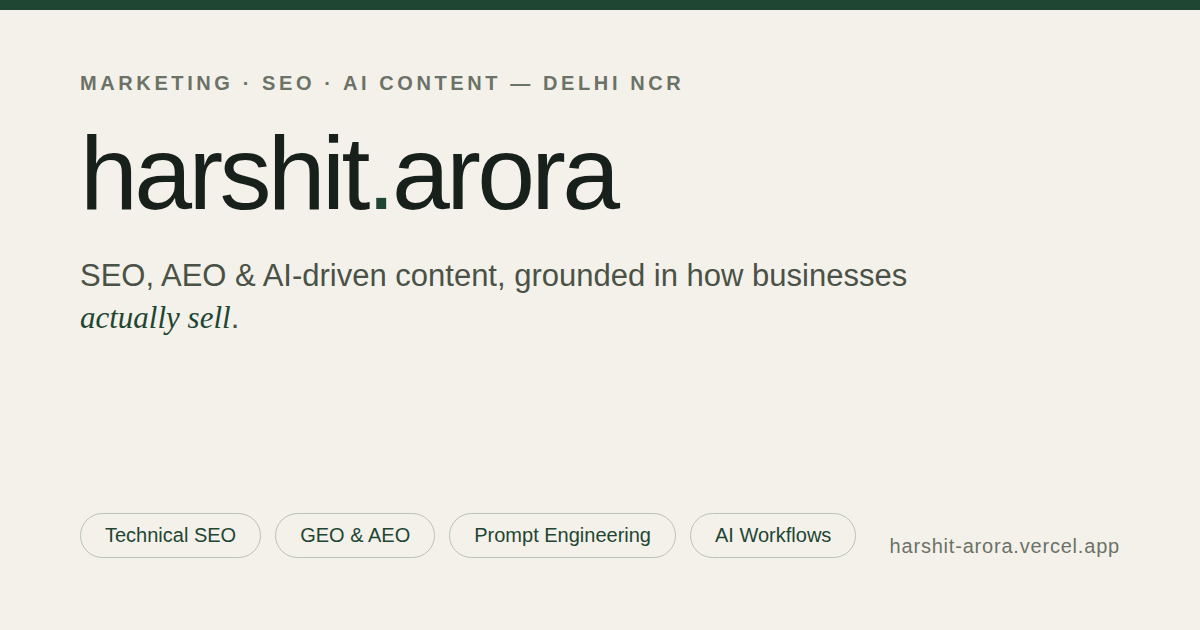
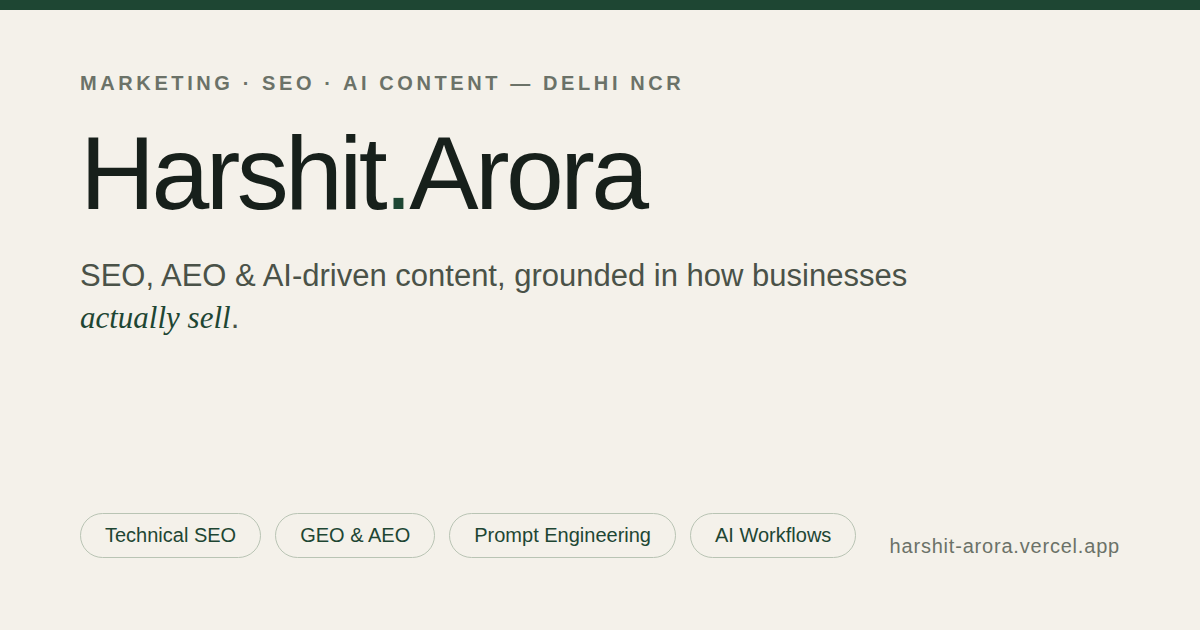
Add scroll-lit text, magnetic hover, layered panels; capitalise wordmark
Motion techniques adapted from the supplied reference spec, implemented
natively rather than migrating to React/Framer Motion.

- Scroll-lit text: headings and the contact paragraph light character by
  character as they enter view. Each character derives its opacity from a
  single custom property on the parent, so a frame updates one property
  rather than looping over spans.
- Magnetic hover on the portrait frame and the nav button, pointer devices
  only. Applied to the frame, not the image, so it cannot fight the
  existing parallax transform.
- Layered panels: Skills and Contact get rounded tops and Contact overlaps
  the band above it, giving the sections depth as they scroll past.
- Gradient heading on the dark Skills band.
- Wordmark now reads "Harshit.Arora" in the nav, the intro curtain and the
  social card.

Two defects found in review and fixed before shipping:
- the contact paragraph never finished lighting because it sits near the
  end of the document and never scrolled high enough; the progress now
  completes once an element's top reaches 60% of the viewport
- frame spikes from writing the custom property every frame and declaring
  will-change on 116 spans; writes are now skipped when the rounded value
  is unchanged, and will-change removed

Verified: median 16.7ms / p95 16.7ms during full-page scroll, no elements
left invisible, no runtime errors, and correct behaviour under
prefers-reduced-motion and with JavaScript disabled.
[…]

Changed region(s): [[0.0617, 0.2111, 0.555, 0.3317]]

diff --git a/index.html b/index.html
@@ -401,6 +401,45 @@
     .portrait-frame img { transform: none !important; }
     .btn:hover, .role:hover .role-detail h3, .chip:hover { transform: none !important; }
   }
+
+  /* ---------- Scroll-lit text (per-character, driven by one custom property) ---------- */
+  html.js .lit .ch {
+    opacity: calc(.22 + .78 * clamp(0, calc(var(--lit, 0) - var(--i)), 1));
+  }
+
+  /* ---------- Magnetic hover ---------- */
+  .magnetic { transition: transform .6s ease-in-out; will-change: transform; }
+  .magnetic.pulling { transition: transform .3s ease-out; }
+
+  /* ---------- Layered panels: rounded tops that overlap the section above ---------- */
+  .skills-band {
+    border-top: none;
+    border-radius: 44px 44px 0 0;
+    position: relative; z-index: 2;
+  }
+  .contact-band {
+    border-radius: 44px 44px 0 0;
+    margin-top: -44px;
+    position: relative; z-index: 3;
+  }
+  .contact-inner { padding-top: 150px; }
+  @media (max-width: 640px) {
+    .skills-band, .contact-band { border-radius: 30px 30px 0 0; }
+    .contact-band { margin-top: -30px; }
+    .contact-inner { padding-top: 104px; }
+  }
+
+  /* ---------- Gradient heading on the dark band ---------- */
+  .skills-band h2 {
+    background: linear-gradient(180deg, #F4F1EA 0%, #9DB5A4 125%);
+    -webkit-background-clip: text; background-clip: text;
+    -webkit-text-fill-color: transparent; color: transparent;
+  }
+
+  @media (prefers-reduced-motion: reduce) {
+    html.js .lit .ch { opacity: 1 !important; }
+    .magnetic { transition: none !important; transform: none !important; }
+  }
 </style>
 
 <script type="application/ld+json">
@@ -465,7 +504,7 @@
 </head>
 <body>
 <div class="intro" id="intro" aria-hidden="true">
-  <div class="intro-inner"><span class="intro-word"><span class="iw">harshit<span class="idot">.</span>arora</span></span></div>
+  <div class="intro-inner"><span class="intro-word"><span class="iw">Harshit<span class="idot">.</span>Arora</span></span></div>
   <div class="intro-meta">
     <span class="intro-label">Marketing · SEO · AI Content</span>
     <span class="intro-count" id="introCount">0</span>
@@ -476,7 +515,7 @@
 
 <nav class="nav">
   <div class="container nav-inner">
-    <a href="#top" class="wordmark">harshit<span style="color: var(--green)">.</span>arora</a>
+    <a href="#top" class="wordmark">Harshit<span style="color: var(--green)">.</span>Arora</a>
     <div class="nav-links">
       <a href="#experience">Experience</a>
       <a href="#skills">Skills</a>
@@ -757,6 +796,7 @@
   var frame = $(".portrait-frame");
   var portrait = frame ? $("img", frame) : null;
   var ticking = false;
+  var litEls = [];
 
   function update() {
     ticking = false;
@@ -777,8 +817,70 @@
         portrait.style.transform = "translate3d(0," + ((p - 0.5) * -34).toFixed(2) + "px,0) scale(1.08)";
       }
     }
+
+    if (litEls && litEls.length && !reduce) {
+      var vh = window.innerHeight, rects = [];
+      for (var i = 0; i < litEls.length; i++) rects.push(litEls[i].getBoundingClientRect()); // read
+      for (var j = 0; j < litEls.length; j++) {                                              // then write
+        var rc = rects[j];
+        // starts as the element enters at 95% of the viewport, completes once its
+        // top reaches 60% — so blocks near the end of the document still finish
+        var prog = (vh * 0.95 - rc.top) / (vh * 0.35);
+        prog = prog < 0 ? 0 : prog > 1 ? 1 : prog;
+        var v = Math.round(prog * (litEls[j].__chars + 6));
+        if (v !== litEls[j].__lit) {            // only touch the DOM when it changes
+          litEls[j].__lit = v;
+          litEls[j].style.setProperty("--lit", v);
+        }
+      }
+    }
   }
   function onScroll() { if (!ticking) { ticking = true; requestAnimationFrame(update); } }
+
+  /* ---------- 5. scroll-lit text ---------- */
+  litEls = $$(".experience-head h2, .skills-inner h2, .contact-copy p");
+  litEls.forEach(function (el) {
+    el.classList.add("lit");
+    var nodes = [], tw = document.createTreeWalker(el, NodeFilter.SHOW_TEXT, null, false);
+    while (tw.nextNode()) nodes.push(tw.currentNode);
+    var i = 0;
+    nodes.forEach(function (node) {
+      var frag = document.createDocumentFragment();
+      node.nodeValue.split("").forEach(function (ch) {
+        if (ch === " " || ch === "\n") { frag.appendChild(document.createTextNode(ch)); i++; return; }
+        var s = document.createElement("span");
+        s.className = "ch";
+        s.style.setProperty("--i", i++);
+        s.textContent = ch;
+        frag.appendChild(s);
+      });
+      node.parentNode.replaceChild(frag, node);
+    });
+    el.__chars = i;
+  });
+
+  /* ---------- 6. magnetic hover (pointer devices only) ---------- */
+  var canHover = window.matchMedia && window.matchMedia("(hover: hover) and (pointer: fine)").matches;
+  if (canHover && !reduce) {
+    [[frame, 7, 110], [$(".btn-nav"), 4, 60]].forEach(function (cfg) {
+      var el = cfg[0], strength = cfg[1], pad = cfg[2];
+      if (!el) return;
+      el.classList.add("magnetic");
+      window.addEventListener("mousemove", function (e) {
+        var r = el.getBoundingClientRect();
+        if (!r.width) return;
+        var dx = e.clientX - (r.left + r.width / 2);
+        var dy = e.clientY - (r.top + r.height / 2);
+        if (Math.abs(dx) < r.width / 2 + pad && Math.abs(dy) < r.height / 2 + pad) {
+          el.classList.add("pulling");
+          el.style.transform = "translate3d(" + (dx / strength).toFixed(1) + "px," + (dy / strength).toFixed(1) + "px,0)";
+        } else if (el.classList.contains("pulling")) {
+          el.classList.remove("pulling");
+          el.style.transform = "translate3d(0,0,0)";
+        }
+      }, { passive: true });
+    });
+  }
 
   window.addEventListener("scroll", onScroll, { passive: true });
   window.addEventListener("resize", onScroll, { passive: true });
